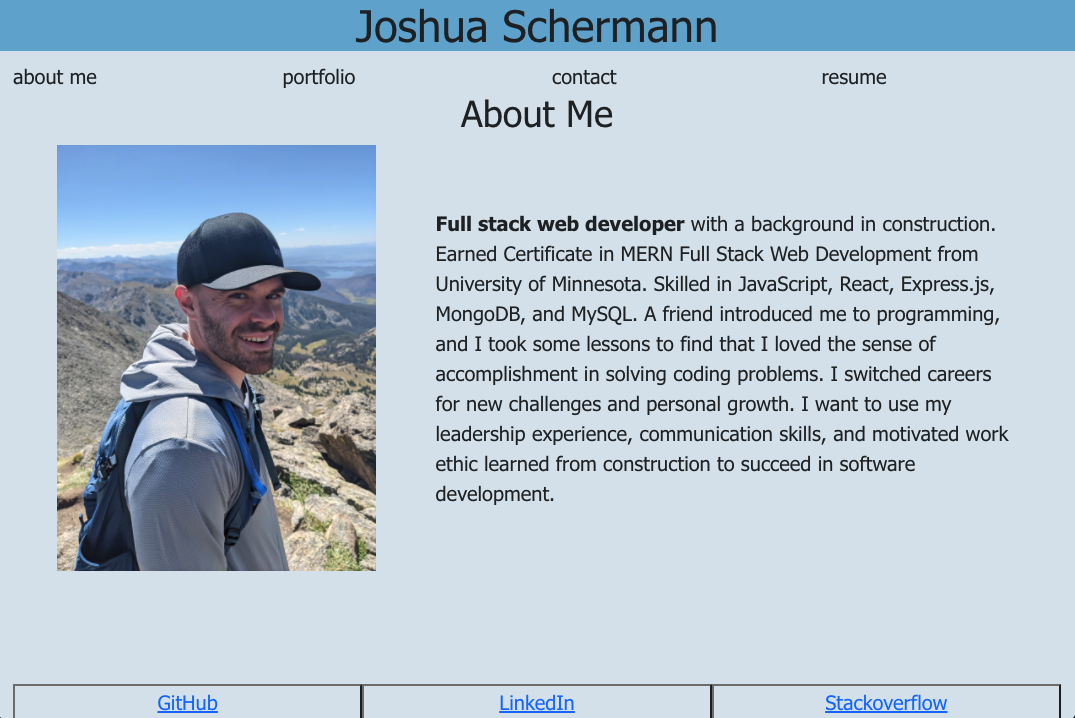
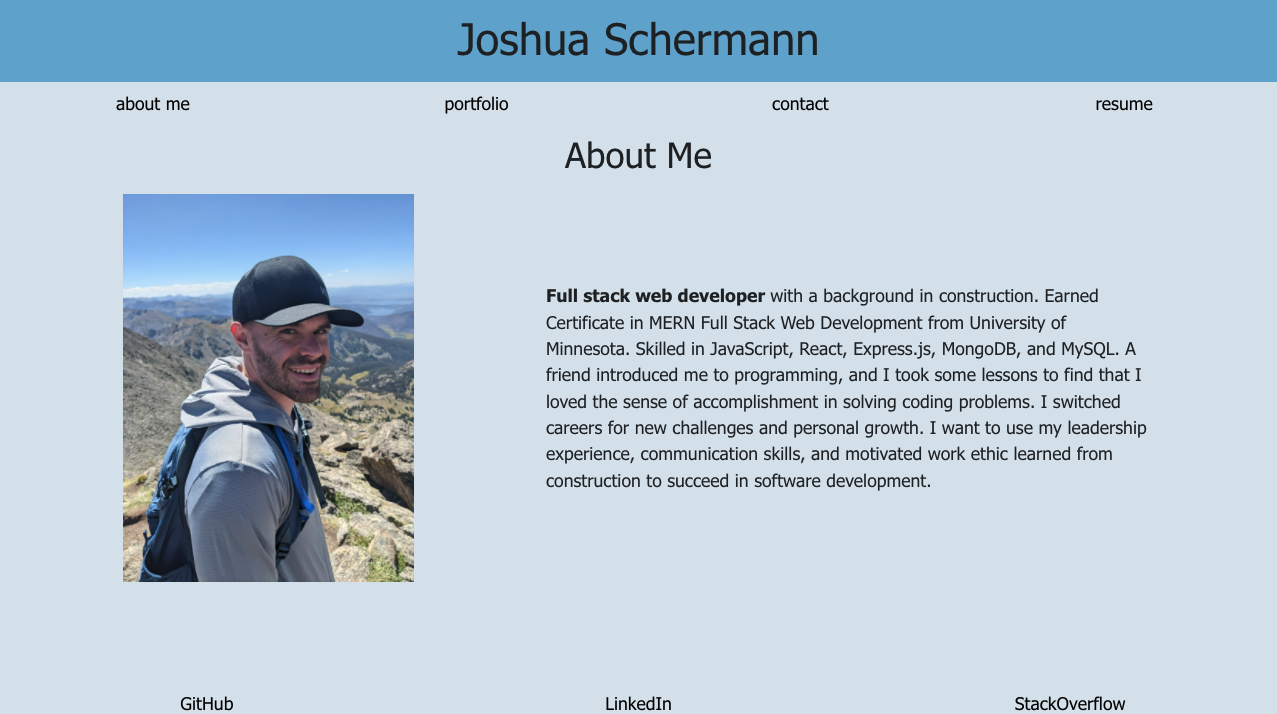
joynews screenshot added

diff --git a/src/components/About/index.js b/src/components/About/index.js
@@ -17,9 +17,9 @@ function About() {
         Web Development from University of Minnesota. Skilled in JavaScript,
         React, Express.js, MongoDB, and MySQL. A friend introduced me to
         programming, and I took some lessons to find that I loved the sense of
-        accomplishment in solving coding problems. I switched careers for new
+        accomplishment in solving programming problems. I switched careers for new
         challenges and personal growth. I want to use my leadership experience,
-        communication skills, and motivated work ethic learned from construction
+        public speaking skills, and motivated work ethic learned from construction
         to succeed in software development.
       </p>
     </article>
